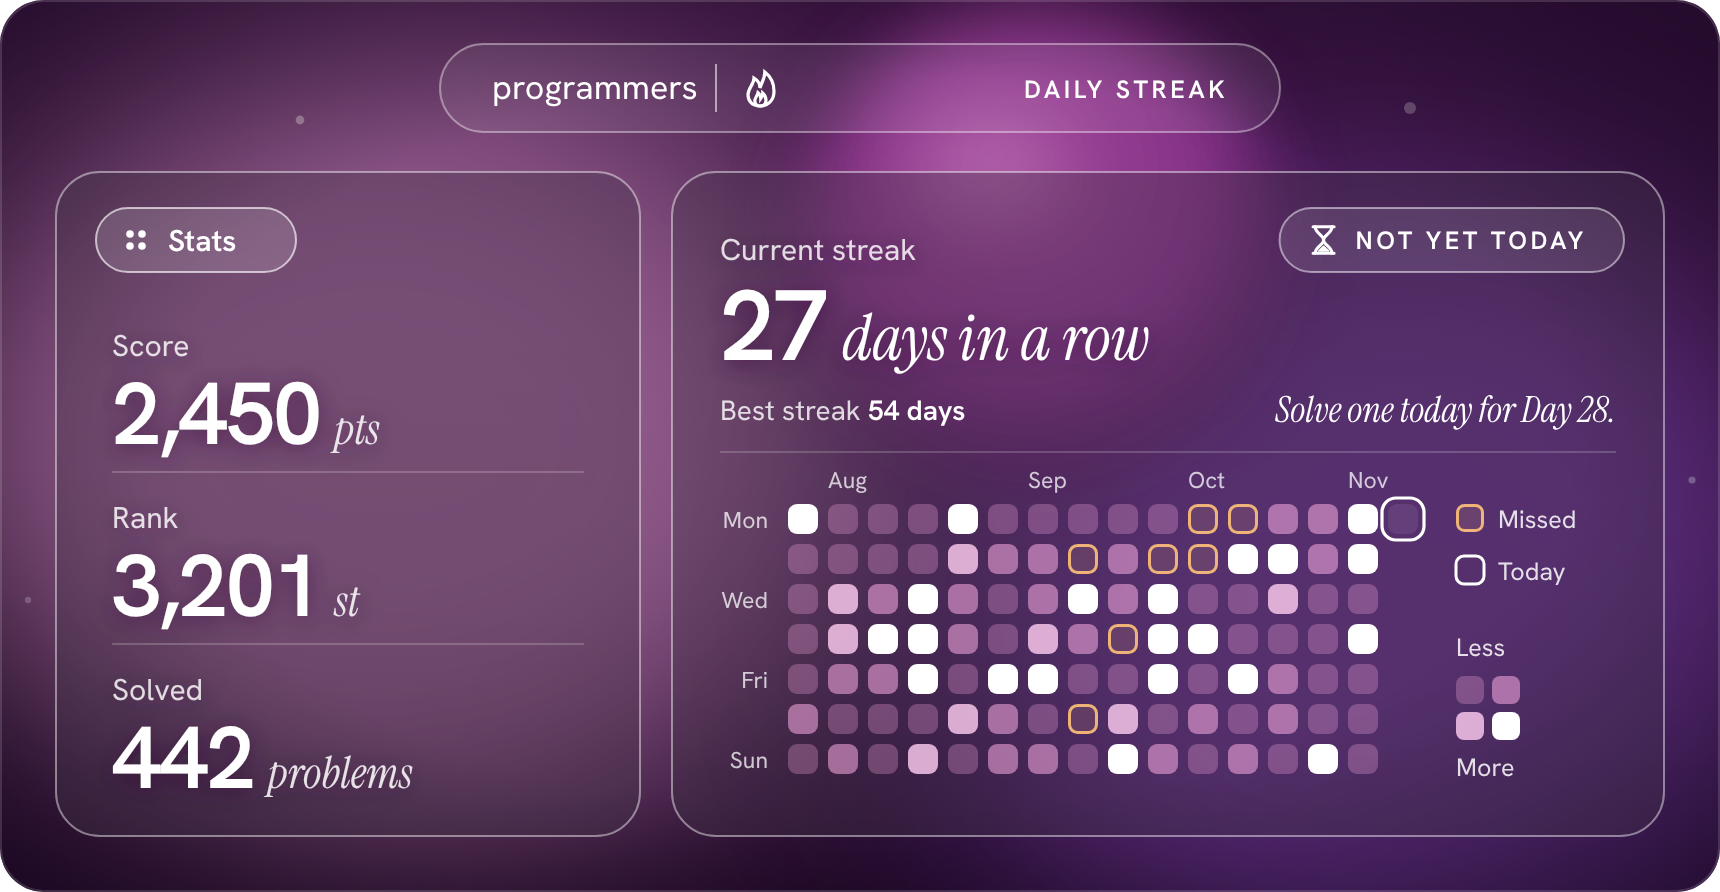
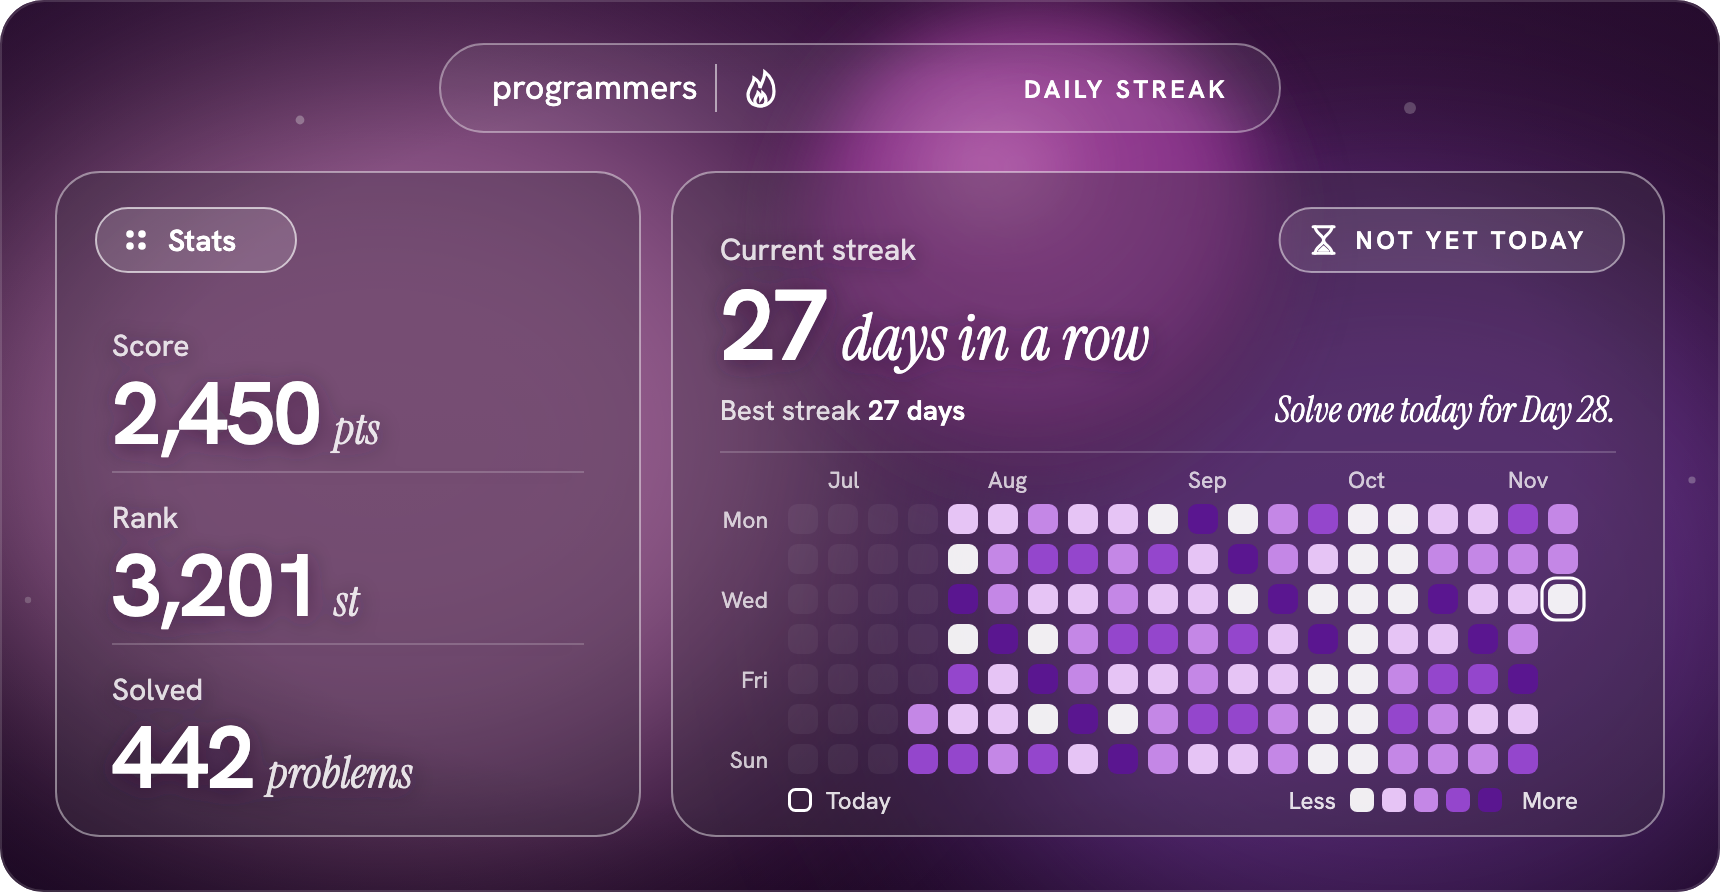
feat: 잔디를 흰색→진보라 단계로 바꾸고 범례를 잔디 아래 가로 한 줄로 이동

diff --git a/streak/render.py b/streak/render.py
@@ -20,14 +20,14 @@ BG_TOP, BG_BOTTOM = "#3A1442", "#22092A"
 GLOW_PINK, GLOW_VIOLET, ORB = "#E39AD0", "#8E4BC4", "#9B3A9A"
 WHITE = "#FFFFFF"
 GLASS_FILL, GLASS_STROKE = 0.07, 0.40
-MISSED = "#FFC27A"
-LEVELS = [("#F2A6DA", .30), ("#F2A6DA", .58), ("#F7C6EA", .85), ("#FFFFFF", 1.0)]  # 1, 2, 3-4, 5+
+EMPTY = ("#FFFFFF", .92)  # 안 푼 날: 흰색
+LEVELS = [("#E6C4F5", 1.0), ("#C487E6", 1.0), ("#9446CC", 1.0), ("#5A1690", 1.0)]  # 1, 2, 3-4, 5+ (많을수록 진한 보라)
 MONTHS = "Jan Feb Mar Apr May Jun Jul Aug Sep Oct Nov Dec".split()
 
 SANS = "'Hanken', 'Helvetica Neue', Arial, sans-serif"
 SERIF = "'InstrumentItalic', Georgia, 'Times New Roman', serif"
 
-WEEKS, CELL, GAP = 16, 15, 5
+WEEKS, CELL, GAP = 20, 15, 5
 STEP = CELL + GAP
 
 
@@ -222,26 +222,22 @@ def render(counts: dict[dt.date, int], today: dt.date, start: dt.date, stats: St
             lv = level_of(counts.get(d, 0))
             if d < start:
                 a(f'<rect x="{x}" y="{y}" width="{CELL}" height="{CELL}" rx="4.5" fill="{WHITE}" fill-opacity=".05"/>')
-            elif lv == 0 and d != today:
-                a(f'<rect x="{x+.75}" y="{y+.75}" width="{CELL-1.5}" height="{CELL-1.5}" rx="4" fill="{MISSED}" fill-opacity=".12" stroke="{MISSED}" stroke-opacity=".9" stroke-width="1.5"/>')
-            elif lv == 0:
-                a(f'<rect x="{x}" y="{y}" width="{CELL}" height="{CELL}" rx="4.5" fill="{WHITE}" fill-opacity=".08"/>')
             else:
-                c, op = LEVELS[lv - 1]
+                c, op = LEVELS[lv - 1] if lv else EMPTY
                 a(f'<rect x="{x}" y="{y}" width="{CELL}" height="{CELL}" rx="4.5" fill="{c}" fill-opacity="{op}"/>')
             if d == today:
                 cls = "" if done else ' class="p"'
                 a(f'<rect x="{x-3}" y="{y-3}" width="{CELL+6}" height="{CELL+6}" rx="7" fill="none" stroke="{WHITE}" stroke-width="1.6"{cls}/>')
-    # 범례
-    lgx = gx0 + WEEKS * STEP + 14
-    a(f'<rect x="{lgx+.75}" y="{gy0+.75}" width="12.5" height="12.5" rx="3.5" fill="{MISSED}" fill-opacity=".12" stroke="{MISSED}" stroke-opacity=".9" stroke-width="1.5"/>')
-    a(f'<text x="{lgx+21}" y="{gy0+12}" class="s" font-size="12.5" fill="{WHITE}" fill-opacity=".85">Missed</text>')
-    a(f'<rect x="{lgx}" y="{gy0+26}" width="14" height="14" rx="4" fill="none" stroke="{WHITE}" stroke-width="1.5"/>')
-    a(f'<text x="{lgx+21}" y="{gy0+38}" class="s" font-size="12.5" fill="{WHITE}" fill-opacity=".85">Today</text>')
-    a(f'<text x="{lgx}" y="{gy0+76}" class="s" font-size="12.5" fill="{WHITE}" fill-opacity=".85">Less</text>')
-    for i, (c, op) in enumerate(LEVELS):
-        a(f'<rect x="{lgx + (i%2)*18}" y="{gy0+86 + (i//2)*18}" width="14" height="14" rx="4" fill="{c}" fill-opacity="{op}"/>')
-    a(f'<text x="{lgx}" y="{gy0+136}" class="s" font-size="12.5" fill="{WHITE}" fill-opacity=".85">More</text>')
+    # 범례: 잔디 아래 한 줄 — 왼쪽 Today, 오른쪽 Less □□□□□ More
+    ly = gy0 + 7 * STEP + 2
+    a(f'<rect x="{gx0+.75}" y="{ly+.75}" width="10.5" height="10.5" rx="3" fill="none" stroke="{WHITE}" stroke-width="1.5"/>')
+    a(f'<text x="{gx0+19}" y="{ly+10.5}" class="s" font-size="12" fill="{WHITE}" fill-opacity=".85">Today</text>')
+    gr = gx0 + WEEKS * STEP - GAP
+    a(f'<text x="{gr}" y="{ly+10.5}" class="s" font-size="12" fill="{WHITE}" fill-opacity=".85" text-anchor="end">More</text>')
+    bx = gr - 38 - (5 * 16 - 4)
+    for i, (c, op) in enumerate([EMPTY] + LEVELS):
+        a(f'<rect x="{bx + i*16}" y="{ly}" width="12" height="12" rx="3.5" fill="{c}" fill-opacity="{op}"/>')
+    a(f'<text x="{bx-7}" y="{ly+10.5}" class="s" font-size="12" fill="{WHITE}" fill-opacity=".85" text-anchor="end">Less</text>')
 
     a('</svg>')
     return "\n".join(o)

diff --git a/README.md b/README.md
@@ -21,7 +21,7 @@ GitHub 프로필에 보여주는 배지
 
 ## ✨ 특징
 
-- **연속 풀이(스트릭) + 잔디** — 백준허브가 올린 기록으로 오늘까지 며칠 연속 풀었는지, 최근 16주 동안 어떻게 풀었는지 보여줍니다. 안 푼 날은 주황 테두리로 표시됩니다.
+- **연속 풀이(스트릭) + 잔디** — 백준허브가 올린 기록으로 오늘까지 며칠 연속 풀었는지, 최근 20주 동안 어떻게 풀었는지 보여줍니다. 안 푼 날은 흰색, 많이 푼 날일수록 진한 보라색입니다.
 - **점수 · 랭킹 · 푼 문제 수** — 프로그래머스 계정 정보를 그대로 가져옵니다. (선택)
 - **한국 시간 기준** — 오늘 아직 안 풀었어도 **자정 전까지는 연속 기록이 끊기지 않습니다.**
 - **자동 갱신** — 매시간 갱신되고, 설정하면 문제를 풀자마자 1~2분 안에 바뀝니다.
@@ -47,14 +47,14 @@ GitHub 프로필에 보여주는 배지
 |:--|:--|
 | 왼쪽 **Stats** | 프로그래머스 **점수**(Score), 전체 **랭킹**(Rank), **해결한 문제 수**(Solved) |
 | 오른쪽 위 | **현재 연속 일수**, **최장 기록**(Best streak), 오늘 상태와 응원 문구 |
-| 오른쪽 잔디 | 최근 16주 동안 날마다 푼 문제 수 |
+| 오른쪽 잔디 | 최근 20주 동안 날마다 푼 문제 수 |
 
 | 표시 | 의미 |
 |:--:|:--|
 | ✓ `2 SOLVED TODAY` | 오늘 이미 풀었어요 (앞의 숫자 = 오늘 푼 문제 수) |
 | ⧗ `NOT YET TODAY` | 오늘 아직 안 풀었어요. 자정 전에 풀면 연속 기록이 이어집니다 |
-| 분홍 → 흰색 칸 | 그날 푼 문제 수 (1 · 2 · 3–4 · 5개 이상). 흰색일수록 많이 푼 날 |
-| 주황 테두리 칸 | 안 푼 날 |
+| 흰색 칸 | 안 푼 날 |
+| 연보라 → 진보라 칸 | 그날 푼 문제 수 (1 · 2 · 3–4 · 5개 이상). 진할수록 많이 푼 날 |
 | 흰 테두리 칸 | 오늘 |
 | `—` | 아직 값을 가져오지 못했어요 ([자주 묻는 질문](#-자주-묻는-질문) 참고) |
 
